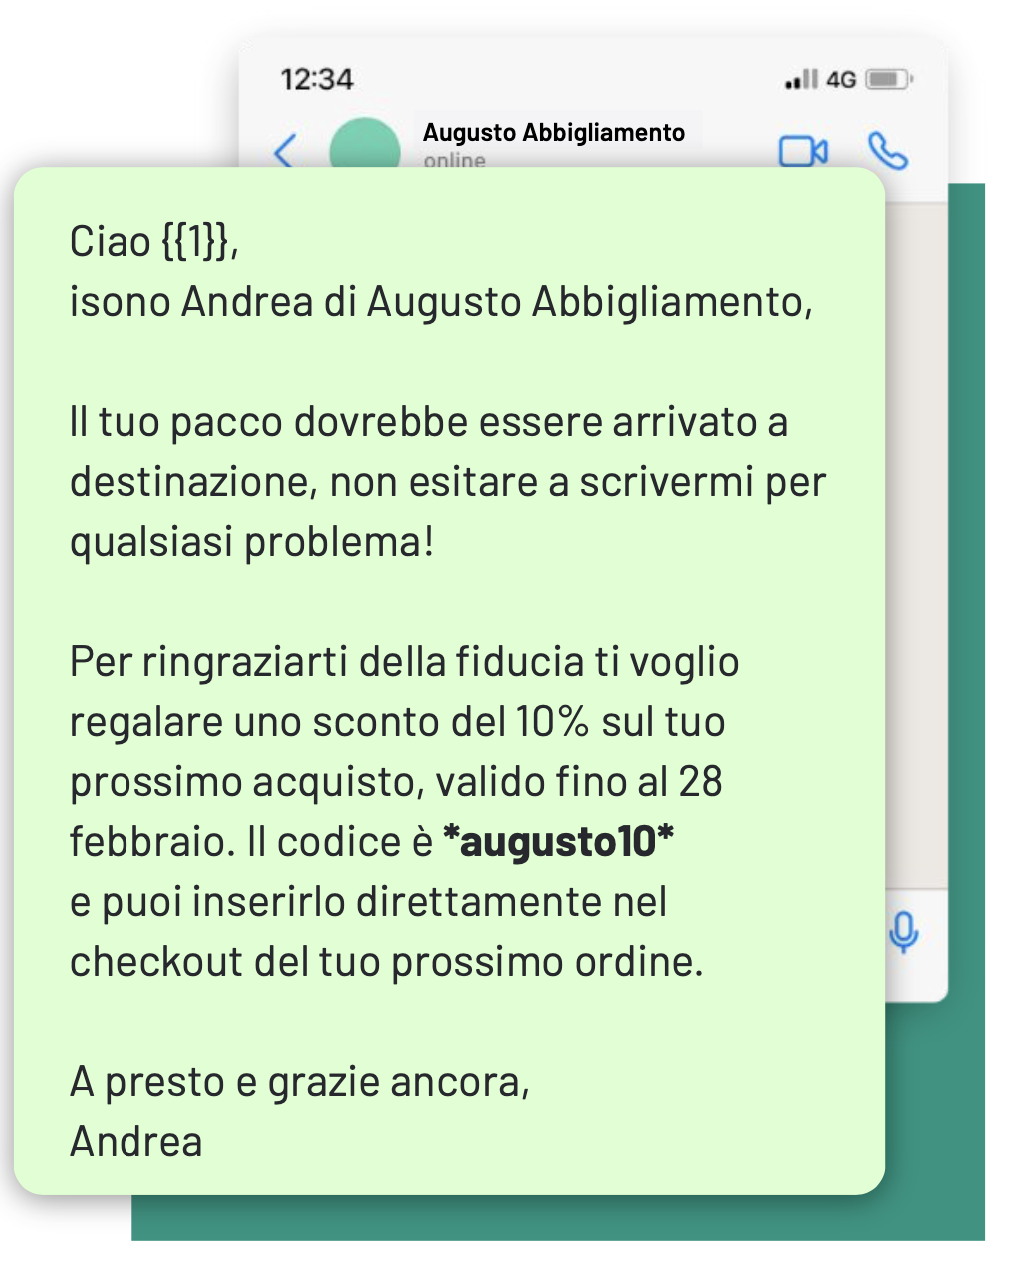
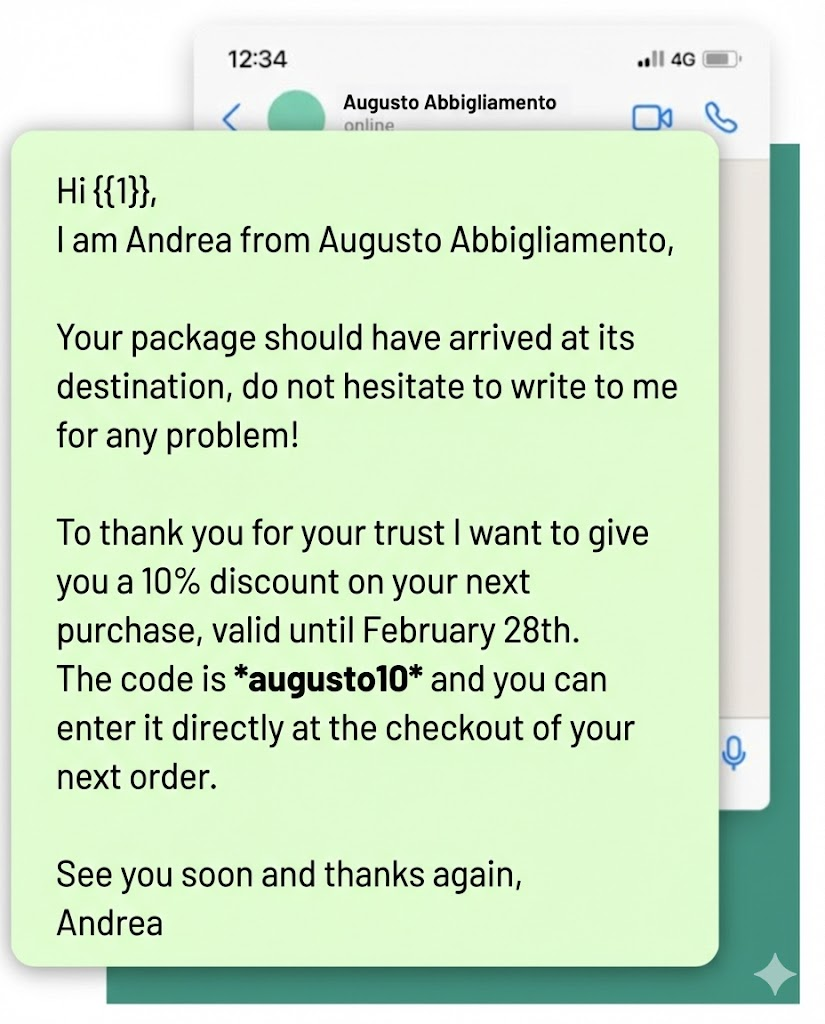
Aggiorna immagini EN per Coltelleria e Cura Farma
Imposta asset locali per Strategy/Challenge e per Exponential Growth.

diff --git a/coltelleria-store-case-study.tsx b/coltelleria-store-case-study.tsx
@@ -2,11 +2,12 @@
 
 import Image from "next/image"
 import { Card } from "@/components/ui/card"
-import { useTranslations } from 'next-intl'
+import { useTranslations, useLocale } from 'next-intl'
 
 export default function ColtelleriaStoreCaseStudy() {
   const t = useTranslations('coltelleriaStore')
   const tCommon = useTranslations('common')
+  const locale = useLocale()
   return (
     <div className="min-h-screen bg-[#0a1e4d] text-white p-4 md:p-8 lg:p-12 relative overflow-hidden">
       {/* Background decorative elements */}
@@ -226,7 +227,11 @@ export default function ColtelleriaStoreCaseStudy() {
               </div>
               <div>
                 <Image
-                  src="/images/coltelleria-whatsapp.png"
+                  src={
+                    locale === "en"
+                      ? "/images/coltelleria-whatsapp-map-en.png"
+                      : "/images/coltelleria-whatsapp.png"
+                  }
                   alt="Messaggio WhatsApp di Coltelleria Store"
                   width={600}
                   height={400}
@@ -252,7 +257,11 @@ export default function ColtelleriaStoreCaseStudy() {
               </div>
               <div>
                 <Image
-                  src="/images/coltelleria-whatsapp.png"
+                  src={
+                    locale === "en"
+                      ? "/images/coltelleria-whatsapp-template-en.png"
+                      : "/images/coltelleria-whatsapp.png"
+                  }
                   alt="Messaggio WhatsApp di Coltelleria Store"
                   width={600}
                   height={600}

diff --git a/cura-farma-case-study.tsx b/cura-farma-case-study.tsx
@@ -327,7 +327,7 @@ export default function CuraFarmaCaseStudy() {
               <div className="relative mt-8">
                 <div className="absolute -inset-1 bg-gradient-to-r from-[#3db4d2]/30 to-[#3db4d2]/10 rounded-xl blur-sm"></div>
                 <Image
-                  src={getLocalizedImage('cura-farma-reviews-chart.png', locale)}
+                  src={getLocalizedImage('cura-farma-exponential-growth.png', locale)}
                   alt="Cura Farma growth chart"
                   width={800}
                   height={400}
